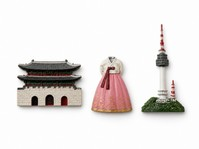
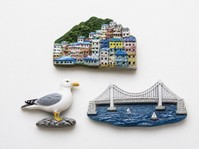
Localize K-items to Busan
- Shops: Seomyeon underground mall, Nampo-dong/Gwangbok-ro, Gukje Market,
  Gamcheon Culture Village, Haeundae, Busan Station (no Seoul places)
- Busan fridge magnets (village, seagull, Gwangan Bridge) with a new
  Canva picture; replace Insadong bookmarks with Busan fish cakes
- Update feature sentences, word meanings and README table

Claude-Session: https://claude.ai/code/session_01CMwNFnc6SkSm8puPctARfS

diff --git a/index.html b/index.html
@@ -262,13 +262,13 @@ footer { color: var(--muted); font-size: 13px; }
 <header class="top">
   <div class="wrap">
     <div class="sign-row">
-      <span class="shopname">🛍 K-ITEMS 영어 마켓</span>
+      <span class="shopname">🌊 부산 K-ITEMS 영어 마켓</span>
     </div>
     <div class="sign-row">
       <h1>How much are the <span class="blank" id="heroWord">socks</span>?</h1>
       <button class="speak" type="button" id="heroSpeak" aria-label="문장 듣기">🔊</button>
     </div>
-    <p class="lede">외국인 관광객이 <b>올리브영 · 다이소 · 아트박스 · 명동 · 인사동</b>에서 꼭 사 가는 K-아이템 20가지예요. 물건 이름, 가격, 특징을 보고 장바구니에 담아 영어노트 문장으로 연습해요. 단어를 누르면 뜻과 발음이 나와요.</p>
+    <p class="lede">부산에 온 외국인 관광객이 <b>올리브영 · 다이소 · 아트박스 · 서면 · 남포동 · 국제시장 · 감천문화마을</b>에서 꼭 사 가는 K-아이템 20가지예요. 물건 이름, 가격, 특징을 보고 장바구니에 담아 영어노트 문장으로 연습해요. 단어를 누르면 뜻과 발음이 나와요.</p>
   </div>
 </header>
 
@@ -319,8 +319,9 @@ footer { color: var(--muted); font-size: 13px; }
 
 <script>
 const STORES = {
-  oliveyoung: "올리브영", daiso: "다이소", artbox: "아트박스", myeongdong: "명동 거리",
-  insadong: "인사동 기념품점", underground: "지하상가", cvs: "편의점·마트"
+  oliveyoung: "올리브영", daiso: "다이소", artbox: "아트박스", seomyeon: "서면 지하상가",
+  nampo: "남포동·광복로", gukje: "국제시장", gamcheon: "감천문화마을", haeundae: "해운대",
+  busanstation: "부산역", cvs: "편의점·마트"
 };
 /* f: feature sentences per level — 1 초급 · 2 중급 · 3 고급 */
 const ITEMS = [
@@ -356,10 +357,10 @@ const ITEMS = [
     f:{1:[["They are clear.","투명해요."],["They are thin.","얇아요."]],
        2:[["K-pop fans keep their photocards in them.","케이팝 팬들이 포토카드를 넣어 보관해요."],["There are many sleeves in one pack.","한 묶음에 슬리브가 많이 들어 있어요."]],
        3:[["They protect your favorite idol's photocards from water and scratches.","좋아하는 아이돌 포토카드를 물과 긁힘으로부터 지켜 줘요."],["Fans from all over the world buy them at Daiso because they are cheap.","싸서 전 세계 팬들이 다이소에서 사 가요."]]}},
-  { id:"chopsticks", en:"chopsticks", ko:"쇠젓가락·수저 세트", emoji:"🥢", stores:["daiso","insadong"], price:3000, range:"2,000~30,000원",
+  { id:"chopsticks", en:"chopsticks", ko:"쇠젓가락·수저 세트", emoji:"🥢", stores:["daiso","gukje"], price:3000, range:"2,000~30,000원",
     f:{1:[["They are metal.","쇠로 만들었어요."],["They are long and flat.","길고 납작해요."]],
        2:[["Korean chopsticks are made of metal, not wood.","한국 젓가락은 나무가 아니라 쇠로 만들어요."],["They often come with a spoon.","숟가락과 함께 파는 경우가 많아요."]],
-       3:[["Flat metal chopsticks are hard to use at first, but you will get better.","납작한 쇠젓가락은 처음엔 쓰기 어렵지만 점점 익숙해져요."],["In Insadong, you can buy beautiful sets as gifts for your family.","인사동에서는 가족 선물로 예쁜 수저 세트를 살 수 있어요."]]}},
+       3:[["Flat metal chopsticks are hard to use at first, but you will get better.","납작한 쇠젓가락은 처음엔 쓰기 어렵지만 점점 익숙해져요."],["At Gukje Market, you can buy beautiful sets as gifts for your family.","국제시장에서는 가족 선물로 예쁜 수저 세트를 살 수 있어요."]]}},
   { id:"nail-clippers", en:"nail clippers", ko:"손톱깎이", emoji:"💅", stores:["daiso","oliveyoung"], price:3000, range:"1,000~10,000원",
     f:{1:[["They are strong.","튼튼해요."],["They are silver.","은색이에요."]],
        2:[["Korean nail clippers are very sharp and strong.","한국 손톱깎이는 아주 잘 들고 튼튼해요."],["Many tourists buy them as gifts.","관광객들이 선물로 많이 사 가요."]],
@@ -372,11 +373,11 @@ const ITEMS = [
     f:{1:[["They are pastel colors.","파스텔 색이에요."],["They write well.","잘 써져요."]],
        2:[["They come in a set of three colors.","세 가지 색이 한 세트예요."],["The ink dries very fast.","잉크가 아주 빨리 말라요."]],
        3:[["Korean students love these pens because they write smoothly and look pretty.","부드럽게 써지고 예뻐서 한국 학생들이 아주 좋아해요."],["They are light and cheap, so they are perfect gifts for friends.","가볍고 싸서 친구 선물로 딱이에요."]]}},
-  { id:"keychains", en:"keychains", ko:"캐릭터 키링", emoji:"🔑", stores:["artbox","myeongdong"], price:8000, range:"5,000~12,000원",
+  { id:"keychains", en:"keychains", ko:"캐릭터 키링", emoji:"🔑", stores:["artbox","gamcheon"], price:8000, range:"5,000~12,000원",
     f:{1:[["They are soft.","말랑해요."],["They have bears and bunnies.","곰과 토끼가 달려 있어요."]],
        2:[["People hang them on their bags.","사람들이 가방에 달고 다녀요."],["Each one has a cute animal on it.","하나마다 귀여운 동물이 있어요."]],
        3:[["You can make your own keychain with letters and charms at some shops.","어떤 가게에서는 글자와 장식으로 나만의 키링을 만들 수 있어요."],["They are small and light, so they are easy to bring home.","작고 가벼워서 집에 가져가기 쉬워요."]]}},
-  { id:"hair-clips", en:"hair clips", ko:"리본 헤어핀", emoji:"🎀", stores:["artbox","oliveyoung","underground"], price:4000, range:"3,000~6,000원",
+  { id:"hair-clips", en:"hair clips", ko:"리본 헤어핀", emoji:"🎀", stores:["artbox","oliveyoung","seomyeon"], price:4000, range:"3,000~6,000원",
     f:{1:[["They are pretty.","예뻐요."],["They have pearls.","진주가 달려 있어요."]],
        2:[["They come in many pastel colors.","파스텔 색이 아주 많아요."],["Ribbon hair clips are popular in Korea now.","요즘 한국에서 리본 헤어핀이 인기예요."]],
        3:[["K-pop idols often wear ribbon clips, so many fans want them.","케이팝 아이돌이 리본핀을 자주 해서 팬들이 많이 사요."],["You can wear one on each side of your hair for a cute look.","양쪽에 하나씩 꽂으면 귀여워 보여요."]]}},
@@ -384,33 +385,33 @@ const ITEMS = [
     f:{1:[["They are cloud shapes.","구름 모양이에요."],["They are soft colors.","색이 부드러워요."]],
        2:[["Students write short notes on them.","학생들이 짧은 메모를 써요."],["You can stick them in your books.","책에 붙일 수 있어요."]],
        3:[["Korean memo pads come in fun shapes, like clouds, fruit, and animals.","한국 메모지는 구름, 과일, 동물처럼 재미있는 모양이 많아요."],["They are thick, so one pad lasts a long time.","두툼해서 하나로 오래 써요."]]}},
-  { id:"socks", en:"socks", ko:"캐릭터 양말", emoji:"🧦", stores:["myeongdong","daiso"], price:2000, range:"1,000~3,000원",
+  { id:"socks", en:"socks", ko:"캐릭터 양말", emoji:"🧦", stores:["nampo","daiso"], price:2000, range:"1,000~3,000원",
     f:{1:[["They are cute.","귀여워요."],["They have cats on them.","고양이 그림이 있어요."]],
        2:[["You can buy five pairs for 10,000 won.","다섯 켤레를 만 원에 살 수 있어요."],["There are many animal designs.","동물 디자인이 아주 많아요."]],
-       3:[["Street shops in Myeongdong sell hundreds of socks with funny designs.","명동 거리 가게에서는 재미있는 디자인 양말을 수백 가지 팔아요."],["They are cheap, light, and easy to pack, so they are perfect souvenirs.","싸고 가볍고 챙기기 쉬워서 기념품으로 딱이에요."]]}},
+       3:[["Street shops in Nampo-dong sell hundreds of socks with funny designs.","남포동 거리 가게에서는 재미있는 디자인 양말을 수백 가지 팔아요."],["They are cheap, light, and easy to pack, so they are perfect souvenirs.","싸고 가볍고 챙기기 쉬워서 기념품으로 딱이에요."]]}},
   { id:"choco-pies", en:"Choco Pies", ko:"초코파이 (12개 상자)", emoji:"🍫", stores:["cvs"], price:6000, range:"12개 5,000~7,000원",
     f:{1:[["They are sweet.","달콤해요."],["They are round.","동그래요."]],
        2:[["They have soft marshmallow inside.","안에 부드러운 마시멜로가 있어요."],["There are twelve in one box.","한 상자에 12개가 들어 있어요."]],
        3:[["Koreans often share them with friends as a symbol of friendship.","한국 사람들은 우정의 표시로 친구와 자주 나눠 먹어요."],["Some shops sell special flavors, like strawberry or banana.","어떤 가게에서는 딸기나 바나나 같은 특별한 맛도 팔아요."]]}},
-  { id:"fridge-magnets", en:"fridge magnets", ko:"기념품 냉장고 자석", emoji:"🧲", stores:["insadong","myeongdong"], price:5000, range:"3,000~10,000원",
-    f:{1:[["They are small.","작아요."],["They look like Seoul.","서울 모양이에요."]],
-       2:[["They show famous places, like N Seoul Tower.","N서울타워 같은 유명한 곳 모양이에요."],["You can put them on your fridge.","냉장고에 붙일 수 있어요."]],
-       3:[["Many tourists collect fridge magnets from every city they visit.","많은 관광객이 가는 도시마다 냉장고 자석을 모아요."],["Some magnets show a palace, a hanbok, or a famous tower in Seoul.","궁궐, 한복, 서울의 유명한 타워 모양 자석도 있어요."]]}},
-  { id:"bookmarks", en:"bookmarks", ko:"전통 문양 책갈피", emoji:"🔖", stores:["insadong"], price:5000, range:"3,000~8,000원",
-    f:{1:[["They are thin.","얇아요."],["They have tassels.","술 장식이 달려 있어요."]],
-       2:[["They have traditional Korean patterns.","한국 전통 무늬가 있어요."],["They are made of metal.","금속으로 만들었어요."]],
-       3:[["The patterns come from old Korean palaces and doors.","무늬는 옛 궁궐과 문에서 가져왔어요."],["They are light and flat, so they are easy to put in a letter.","가볍고 납작해서 편지에 넣기 좋아요."]]}},
-  { id:"earrings", en:"earrings", ko:"귀걸이", emoji:"💎", stores:["underground","myeongdong"], price:5000, range:"5,000~10,000원",
+  { id:"fridge-magnets", en:"fridge magnets", ko:"부산 기념품 냉장고 자석", emoji:"🧲", stores:["gamcheon","haeundae"], price:5000, range:"3,000~10,000원",
+    f:{1:[["They are small.","작아요."],["They look like Busan.","부산 모양이에요."]],
+       2:[["They show famous places, like Haeundae Beach.","해운대 해수욕장 같은 유명한 곳 모양이에요."],["You can put them on your fridge.","냉장고에 붙일 수 있어요."]],
+       3:[["Many tourists collect fridge magnets from every city they visit.","많은 관광객이 가는 도시마다 냉장고 자석을 모아요."],["Some magnets show Gamcheon Culture Village, a seagull, or Gwangan Bridge.","감천문화마을, 갈매기, 광안대교 모양 자석도 있어요."]]}},
+  { id:"fish-cakes", en:"fish cakes", ko:"부산 어묵", emoji:"🍢", stores:["busanstation","gukje"], price:3000, range:"1,500~5,000원",
+    f:{1:[["They are hot.","따뜻해요."],["They taste good.","맛있어요."]],
+       2:[["Busan is famous for its fish cakes.","부산은 어묵으로 유명해요."],["You can eat them on a stick.","꼬치에 꽂아서 먹을 수 있어요."]],
+       3:[["Many tourists buy fish cakes at Busan Station before they take the train home.","많은 관광객이 기차를 타고 집에 가기 전에 부산역에서 어묵을 사요."],["Some fish cakes have cheese, vegetables, or shrimp inside.","치즈, 채소, 새우가 들어 있는 어묵도 있어요."]]}},
+  { id:"earrings", en:"earrings", ko:"귀걸이", emoji:"💎", stores:["seomyeon","nampo"], price:5000, range:"5,000~10,000원",
     f:{1:[["They are shiny.","반짝반짝해요."],["They are stars.","별 모양이에요."]],
        2:[["You can find many styles in underground shopping centers.","지하상가에서 여러 가지 스타일을 찾을 수 있어요."],["Some are clip-on earrings.","귀를 안 뚫어도 되는 집게형도 있어요."]],
-       3:[["The Gangnam Express Bus Terminal shopping center has hundreds of earring shops.","강남 고속터미널 지하상가에는 귀걸이 가게가 수백 개 있어요."],["They are cheap and trendy, so young tourists love them.","싸고 유행하는 디자인이라 젊은 관광객들이 아주 좋아해요."]]}}
+       3:[["The Seomyeon underground shopping center has hundreds of earring shops.","서면 지하상가에는 귀걸이 가게가 수백 개 있어요."],["They are cheap and trendy, so young tourists love them.","싸고 유행하는 디자인이라 젊은 관광객들이 아주 좋아해요."]]}}
 ];
 
 const LV_NAME = { 1: "🌱 초급", 2: "🌿 중급", 3: "🌳 고급" };
 
 /* Korean meanings for every word used in the sentences */
 const DICT = {
-  "a":"하나의 (a)","abc-mart":"ABC마트 (신발가게)","about":"약, 대략","all":"모든, 내내","an":"하나의 (an)","and":"그리고","animal":"동물","are":"~이다 (복수)","as":"~로서","at":"~에서","beach":"바닷가, 해변","beautiful":"아름다운","big":"큰","bigger":"더 큰","block":"막다","blue":"파란; 블루","bright":"밝은","but":"하지만","buy":"사다","can":"~할 수 있다","carry":"가지고 다니다","cartoon":"만화","centers":"센터, 상가","character":"캐릭터","characters":"캐릭터들","chopsticks":"젓가락","clip-on":"집게형(귀를 안 뚫어도 되는)","clippers":"깎는 도구","colorful":"알록달록한","colors":"색깔들","come":"(상품이) 나오다","comfortable":"편안한","computers":"컴퓨터들","convenience":"편리함 (convenience store: 편의점)","cool":"시원한; 멋진","cute":"귀여운","daiso":"다이소","dance":"춤, 댄스","day":"날, 하루","designs":"디자인들","dishes":"접시들, 설거지거리","don't":"~하지 않다","dongdaemun":"동대문","dry":"마르다","earmuffs":"귀마개","earphones":"이어폰","earrings":"귀걸이","ears":"귀들","easy":"쉬운","eight":"8, 여덟","eighty":"80","electronics":"전자제품","every":"매, 모든","eyebrows":"눈썹","eyeglass":"안경","eyelashes":"속눈썹","eyes":"눈들","false":"가짜의, 인조","festivals":"축제들","fifty":"50","find":"찾다","five":"5, 다섯","flat":"납작한","flip-flops":"쪼리, 슬리퍼","fluffy":"폭신한","for":"~을 위해, ~동안","forty":"40","four":"4, 넷","from":"~으로부터","fun":"재미있는","gangnam":"강남","get":"얻다, 맞추다","gifts":"선물들","glasses":"안경","gloves":"장갑","good":"좋은","handles":"손잡이들","hands":"손들","have":"가지고 있다","hearts":"하트 모양들","help":"돕다","hot":"더운, 뜨거운","hour":"1시간","house":"집","how":"얼마나, 어떻게","hundred":"100, 백","hundreds":"수백","i":"나, 저","in":"~안에, ~에서","insadong":"인사동","inside":"~안에서","jeans":"청바지","k-pop":"케이팝","keep":"유지하다 (keep warm: 따뜻하게 하다)","kids":"아이들","kimchi":"김치","korea":"한국","korean":"한국의","koreans":"한국 사람들","last":"오래가다","light":"가벼운; 빛","like":"~처럼","long":"긴, 오래","look":"~해 보이다","make":"만들다","many":"많은","market":"시장","metal":"금속, 쇠","mother-of-pearl":"자개","much":"많이 (How much: 얼마)","myeongdong":"명동","nail":"손톱","near":"~근처에","need":"필요하다","new":"새로운","nine":"9, 아홉","ninety":"90","now":"지금, 요즘","of":"~의","often":"자주, 흔히","old":"오래된","olive":"올리브 (Olive Young: 올리브영)","on":"~위에","one":"1, 하나","or":"또는","pair":"한 쌍, 한 켤레","pairs":"쌍들, 켤레들","pajamas":"잠옷","patterns":"무늬들","people":"사람들","phone":"휴대폰","phones":"휴대폰들","pick":"집다 (pick up: 집어 올리다)","pierced":"뚫은","pink":"분홍색의","pool":"수영장","popular":"인기 있는","protect":"보호하다","quickly":"빨리","real":"진짜의","red":"빨간","rubber":"고무","safe":"안전한","school":"학교","scissors":"가위","seven":"7, 일곱","seventy":"70","shape":"다듬다; 모양","shapes":"모양들","sharp":"날카로운","shoe":"신발","shoelaces":"신발끈","shoemarker":"슈마커 (신발가게)","shop":"가게","shopping":"쇼핑","shops":"가게들","shorts":"반바지","shows":"공연들","six":"6, 여섯","sixty":"60","slippers":"슬리퍼, 실내화","small":"작은","sneakers":"운동화","so":"그래서","socks":"양말","soft":"부드러운","some":"어떤 것들은","souvenir":"기념품","spao":"스파오 (옷가게)","sports":"운동","stars":"별들","stationery":"문구","stores":"가게들","street":"거리","strong":"튼튼한","students":"학생들","styles":"스타일들","summers":"여름들","sun":"해, 햇빛","sunglasses":"선글라스","supermarkets":"마트들","swimming":"수영","ten":"10, 열","the":"그 (정해진 것)","their":"그들의","them":"그것들을","these":"이것들","they":"그것들은","they're":"그것들은 ~이다 (They are)","things":"물건들","thirty":"30","thousand":"1,000, 천","three":"3, 셋","time":"시간","to":"~에, ~하기 위해","top":"위쪽","topten":"탑텐 (옷가게)","touch":"터치","tourists":"관광객들","tweezers":"족집게, 핀셋","twenty":"20","two":"2, 둘","underground":"지하의","uniqlo":"유니클로 (옷가게)","up":"위로","use":"사용하다","usually":"보통","very":"아주, 매우","walking":"걷기","want":"원하다","warm":"따뜻한","wash":"씻다","wear":"입다, 신다, 쓰다","wide":"넓은, 통이 큰","winter":"겨울","with":"~와 함께, ~로","won":"원 (한국 돈)","years":"년, 해들","you":"너, 여러분","young":"젊은 (Olive Young: 올리브영)","your":"너의","10,000":"10,000 (만)","sheet":"한 장 (sheet mask: 마스크팩)","masks":"마스크들, 팩","mask":"마스크, 팩","wet":"촉촉한, 젖은","my":"나의","skin":"피부","put":"놓다, 붙이다","face":"얼굴","fifteen":"15","minutes":"분 (시간)","pack":"묶음, 팩","packs":"묶음들","because":"~때문에","cheaper":"더 싼","each":"각각의","has":"가지고 있다","different":"다른","smell":"냄새, 향","green":"초록색의","tea":"차 (green tea: 녹차)","honey":"꿀","pimple":"여드름","patches":"패치들","clear":"투명한","before":"~전에","bed":"침대 (before bed: 자기 전에)","can't":"~할 수 없다","see":"보다","morning":"아침","looks":"~해 보이다","smaller":"더 작은","less":"덜","most":"가장","foreign":"외국의","visitors":"방문객들","lip":"입술","tints":"틴트들","pretty":"예쁜","lips":"입술","try":"(발라) 보다, 시도하다","store":"가게","stay":"남아 있다","even":"~조차, 훨씬","after":"~후에","eat":"먹다","drink":"마시다","idols":"아이돌들","stage":"무대","eye":"눈","gold":"금색의","under":"~아래에","there":"거기 (There are: ~이 있다)","jar":"통, 병","tired":"피곤한","flight":"비행","fridge":"냉장고","feel":"느끼다","cooler":"더 시원한","hand":"손","creams":"크림들","set":"세트","tube":"튜브","such":"~같은 (such as: 예를 들어)","peach":"복숭아","rose":"장미","milk":"우유","enough":"충분히","bag":"가방","hair":"머리카락","rollers":"롤, 마는 도구","round":"동그란","purple":"보라색의","bangs":"앞머리","girls":"여자아이들","outside":"밖에서","this":"이것","funny":"재미있는","roll":"말다","italy":"이탈리아 (Italy towel: 이태리타월)","towels":"수건들","rough":"거친, 까끌까끌한","scrub":"문지르다, 때를 밀다","bath":"목욕","cheap":"싼","called":"~라고 불리는","were":"~였다","first":"처음","made":"만들어진","feels":"느껴지다","smooth":"매끈한","clean":"깨끗한","photocard":"포토카드","sleeves":"슬리브, 보호 비닐","thin":"얇은","fans":"팬들","photocards":"포토카드들","favorite":"가장 좋아하는","idol's":"아이돌의","water":"물","scratches":"긁힘","over":"~위에 (all over the world: 전 세계)","world":"세계","not":"~가 아닌","wood":"나무","spoon":"숟가락","hard":"어려운","better":"더 나은 (get better: 나아지다)","sets":"세트들","family":"가족","silver":"은색의","famous":"유명한","around":"~주변에 (around the world: 전 세계에)","case":"케이스, 통","anywhere":"어디든","stickers":"스티커들","decorate":"꾸미다","diaries":"다이어리들","clouds":"구름들","decorating":"꾸미기","diary":"다이어리, 일기장","is":"~이다","dakku":"다꾸 (다이어리 꾸미기)","artbox":"아트박스 (문구점)","sticker":"스티커","it":"그것","choose":"고르다","gel":"젤","pens":"펜들","pastel":"파스텔(색)","write":"쓰다","well":"잘","ink":"잉크","dries":"마르다","fast":"빨리","love":"아주 좋아하다","smoothly":"부드럽게","perfect":"완벽한, 딱 맞는","friends":"친구들","keychains":"키링들","bears":"곰들","bunnies":"토끼들","hang":"달다, 걸다","bags":"가방들","own":"자신만의","keychain":"키링","letters":"글자들; 편지들","charms":"장식들","bring":"가져가다","home":"집","clips":"핀들, 집게들","pearls":"진주들","ribbon":"리본","side":"쪽, 옆","sticky":"끈적한 (sticky notes: 붙이는 메모지)","notes":"메모들","cloud":"구름","short":"짧은","stick":"붙이다","books":"책들","memo":"메모","pads":"묶음 (memo pad: 메모지)","fruit":"과일","animals":"동물들","thick":"두꺼운","pad":"메모지 묶음","lasts":"오래가다","cats":"고양이들","sell":"팔다","souvenirs":"기념품들","choco":"초코","pies":"파이들","sweet":"달콤한","marshmallow":"마시멜로","twelve":"12","box":"상자","share":"나누다","symbol":"상징, 표시","friendship":"우정","special":"특별한","flavors":"맛들","strawberry":"딸기","banana":"바나나","magnets":"자석들","seoul":"서울","show":"보여 주다","places":"장소들","n":"N (N Seoul Tower: N서울타워)","tower":"타워, 탑","collect":"모으다","city":"도시","visit":"방문하다","palace":"궁궐","hanbok":"한복","bookmarks":"책갈피들","tassels":"술 장식","traditional":"전통의","palaces":"궁궐들","doors":"문들","letter":"편지","shiny":"반짝이는","express":"고속 (Express Bus Terminal: 고속터미널)","bus":"버스","terminal":"터미널","center":"센터, 상가","earring":"귀걸이","trendy":"유행하는","excuse":"실례하다 (Excuse me: 실례합니다)","me":"나를, 저를","where":"어디에서","could":"~해 주시겠어요? (공손하게)","tell":"말하다, 알려 주다","sure":"물론이죠","great":"좋아요, 아주 좋은","i'll":"나는 ~할게요 (I will)","take":"사다, 가져가다","please":"주세요, 부탁해요","that":"그것","will":"~일 것이다","be":"~이다"
+  "a":"하나의 (a)","abc-mart":"ABC마트 (신발가게)","about":"약, 대략","all":"모든, 내내","an":"하나의 (an)","and":"그리고","animal":"동물","are":"~이다 (복수)","as":"~로서","at":"~에서","beach":"바닷가, 해변","beautiful":"아름다운","big":"큰","bigger":"더 큰","block":"막다","blue":"파란; 블루","bright":"밝은","but":"하지만","buy":"사다","can":"~할 수 있다","carry":"가지고 다니다","cartoon":"만화","centers":"센터, 상가","character":"캐릭터","characters":"캐릭터들","chopsticks":"젓가락","clip-on":"집게형(귀를 안 뚫어도 되는)","clippers":"깎는 도구","colorful":"알록달록한","colors":"색깔들","come":"(상품이) 나오다","comfortable":"편안한","computers":"컴퓨터들","convenience":"편리함 (convenience store: 편의점)","cool":"시원한; 멋진","cute":"귀여운","daiso":"다이소","dance":"춤, 댄스","day":"날, 하루","designs":"디자인들","dishes":"접시들, 설거지거리","don't":"~하지 않다","dongdaemun":"동대문","dry":"마르다","earmuffs":"귀마개","earphones":"이어폰","earrings":"귀걸이","ears":"귀들","easy":"쉬운","eight":"8, 여덟","eighty":"80","electronics":"전자제품","every":"매, 모든","eyebrows":"눈썹","eyeglass":"안경","eyelashes":"속눈썹","eyes":"눈들","false":"가짜의, 인조","festivals":"축제들","fifty":"50","find":"찾다","five":"5, 다섯","flat":"납작한","flip-flops":"쪼리, 슬리퍼","fluffy":"폭신한","for":"~을 위해, ~동안","forty":"40","four":"4, 넷","from":"~으로부터","fun":"재미있는","gangnam":"강남","get":"얻다, 맞추다","gifts":"선물들","glasses":"안경","gloves":"장갑","good":"좋은","handles":"손잡이들","hands":"손들","have":"가지고 있다","hearts":"하트 모양들","help":"돕다","hot":"더운, 뜨거운","hour":"1시간","house":"집","how":"얼마나, 어떻게","hundred":"100, 백","hundreds":"수백","i":"나, 저","in":"~안에, ~에서","insadong":"인사동","inside":"~안에서","jeans":"청바지","k-pop":"케이팝","keep":"유지하다 (keep warm: 따뜻하게 하다)","kids":"아이들","kimchi":"김치","korea":"한국","korean":"한국의","koreans":"한국 사람들","last":"오래가다","light":"가벼운; 빛","like":"~처럼","long":"긴, 오래","look":"~해 보이다","make":"만들다","many":"많은","market":"시장","metal":"금속, 쇠","mother-of-pearl":"자개","much":"많이 (How much: 얼마)","myeongdong":"명동","nail":"손톱","near":"~근처에","need":"필요하다","new":"새로운","nine":"9, 아홉","ninety":"90","now":"지금, 요즘","of":"~의","often":"자주, 흔히","old":"오래된","olive":"올리브 (Olive Young: 올리브영)","on":"~위에","one":"1, 하나","or":"또는","pair":"한 쌍, 한 켤레","pairs":"쌍들, 켤레들","pajamas":"잠옷","patterns":"무늬들","people":"사람들","phone":"휴대폰","phones":"휴대폰들","pick":"집다 (pick up: 집어 올리다)","pierced":"뚫은","pink":"분홍색의","pool":"수영장","popular":"인기 있는","protect":"보호하다","quickly":"빨리","real":"진짜의","red":"빨간","rubber":"고무","safe":"안전한","school":"학교","scissors":"가위","seven":"7, 일곱","seventy":"70","shape":"다듬다; 모양","shapes":"모양들","sharp":"날카로운","shoe":"신발","shoelaces":"신발끈","shoemarker":"슈마커 (신발가게)","shop":"가게","shopping":"쇼핑","shops":"가게들","shorts":"반바지","shows":"공연들","six":"6, 여섯","sixty":"60","slippers":"슬리퍼, 실내화","small":"작은","sneakers":"운동화","so":"그래서","socks":"양말","soft":"부드러운","some":"어떤 것들은","souvenir":"기념품","spao":"스파오 (옷가게)","sports":"운동","stars":"별들","stationery":"문구","stores":"가게들","street":"거리","strong":"튼튼한","students":"학생들","styles":"스타일들","summers":"여름들","sun":"해, 햇빛","sunglasses":"선글라스","supermarkets":"마트들","swimming":"수영","ten":"10, 열","the":"그 (정해진 것)","their":"그들의","them":"그것들을","these":"이것들","they":"그것들은","they're":"그것들은 ~이다 (They are)","things":"물건들","thirty":"30","thousand":"1,000, 천","three":"3, 셋","time":"시간","to":"~에, ~하기 위해","top":"위쪽","topten":"탑텐 (옷가게)","touch":"터치","tourists":"관광객들","tweezers":"족집게, 핀셋","twenty":"20","two":"2, 둘","underground":"지하의","uniqlo":"유니클로 (옷가게)","up":"위로","use":"사용하다","usually":"보통","very":"아주, 매우","walking":"걷기","want":"원하다","warm":"따뜻한","wash":"씻다","wear":"입다, 신다, 쓰다","wide":"넓은, 통이 큰","winter":"겨울","with":"~와 함께, ~로","won":"원 (한국 돈)","years":"년, 해들","you":"너, 여러분","young":"젊은 (Olive Young: 올리브영)","your":"너의","10,000":"10,000 (만)","gukje":"국제 (Gukje Market: 국제시장)","nampo-dong":"남포동","busan":"부산","haeundae":"해운대","gamcheon":"감천","culture":"문화","village":"마을","seagull":"갈매기","gwangan":"광안 (Gwangan Bridge: 광안대교)","bridge":"다리","fish":"생선, 물고기","cakes":"케이크 (fish cakes: 어묵)","taste":"맛이 나다","its":"그것의","station":"역 (Busan Station: 부산역)","train":"기차","cheese":"치즈","vegetables":"채소들","shrimp":"새우","seomyeon":"서면","sheet":"한 장 (sheet mask: 마스크팩)","masks":"마스크들, 팩","mask":"마스크, 팩","wet":"촉촉한, 젖은","my":"나의","skin":"피부","put":"놓다, 붙이다","face":"얼굴","fifteen":"15","minutes":"분 (시간)","pack":"묶음, 팩","packs":"묶음들","because":"~때문에","cheaper":"더 싼","each":"각각의","has":"가지고 있다","different":"다른","smell":"냄새, 향","green":"초록색의","tea":"차 (green tea: 녹차)","honey":"꿀","pimple":"여드름","patches":"패치들","clear":"투명한","before":"~전에","bed":"침대 (before bed: 자기 전에)","can't":"~할 수 없다","see":"보다","morning":"아침","looks":"~해 보이다","smaller":"더 작은","less":"덜","most":"가장","foreign":"외국의","visitors":"방문객들","lip":"입술","tints":"틴트들","pretty":"예쁜","lips":"입술","try":"(발라) 보다, 시도하다","store":"가게","stay":"남아 있다","even":"~조차, 훨씬","after":"~후에","eat":"먹다","drink":"마시다","idols":"아이돌들","stage":"무대","eye":"눈","gold":"금색의","under":"~아래에","there":"거기 (There are: ~이 있다)","jar":"통, 병","tired":"피곤한","flight":"비행","fridge":"냉장고","feel":"느끼다","cooler":"더 시원한","hand":"손","creams":"크림들","set":"세트","tube":"튜브","such":"~같은 (such as: 예를 들어)","peach":"복숭아","rose":"장미","milk":"우유","enough":"충분히","bag":"가방","hair":"머리카락","rollers":"롤, 마는 도구","round":"동그란","purple":"보라색의","bangs":"앞머리","girls":"여자아이들","outside":"밖에서","this":"이것","funny":"재미있는","roll":"말다","italy":"이탈리아 (Italy towel: 이태리타월)","towels":"수건들","rough":"거친, 까끌까끌한","scrub":"문지르다, 때를 밀다","bath":"목욕","cheap":"싼","called":"~라고 불리는","were":"~였다","first":"처음","made":"만들어진","feels":"느껴지다","smooth":"매끈한","clean":"깨끗한","photocard":"포토카드","sleeves":"슬리브, 보호 비닐","thin":"얇은","fans":"팬들","photocards":"포토카드들","favorite":"가장 좋아하는","idol's":"아이돌의","water":"물","scratches":"긁힘","over":"~위에 (all over the world: 전 세계)","world":"세계","not":"~가 아닌","wood":"나무","spoon":"숟가락","hard":"어려운","better":"더 나은 (get better: 나아지다)","sets":"세트들","family":"가족","silver":"은색의","famous":"유명한","around":"~주변에 (around the world: 전 세계에)","case":"케이스, 통","anywhere":"어디든","stickers":"스티커들","decorate":"꾸미다","diaries":"다이어리들","clouds":"구름들","decorating":"꾸미기","diary":"다이어리, 일기장","is":"~이다","dakku":"다꾸 (다이어리 꾸미기)","artbox":"아트박스 (문구점)","sticker":"스티커","it":"그것","choose":"고르다","gel":"젤","pens":"펜들","pastel":"파스텔(색)","write":"쓰다","well":"잘","ink":"잉크","dries":"마르다","fast":"빨리","love":"아주 좋아하다","smoothly":"부드럽게","perfect":"완벽한, 딱 맞는","friends":"친구들","keychains":"키링들","bears":"곰들","bunnies":"토끼들","hang":"달다, 걸다","bags":"가방들","own":"자신만의","keychain":"키링","letters":"글자들; 편지들","charms":"장식들","bring":"가져가다","home":"집","clips":"핀들, 집게들","pearls":"진주들","ribbon":"리본","side":"쪽, 옆","sticky":"끈적한 (sticky notes: 붙이는 메모지)","notes":"메모들","cloud":"구름","short":"짧은","stick":"붙이다","books":"책들","memo":"메모","pads":"묶음 (memo pad: 메모지)","fruit":"과일","animals":"동물들","thick":"두꺼운","pad":"메모지 묶음","lasts":"오래가다","cats":"고양이들","sell":"팔다","souvenirs":"기념품들","choco":"초코","pies":"파이들","sweet":"달콤한","marshmallow":"마시멜로","twelve":"12","box":"상자","share":"나누다","symbol":"상징, 표시","friendship":"우정","special":"특별한","flavors":"맛들","strawberry":"딸기","banana":"바나나","magnets":"자석들","seoul":"서울","show":"보여 주다","places":"장소들","n":"N (N Seoul Tower: N서울타워)","tower":"타워, 탑","collect":"모으다","city":"도시","visit":"방문하다","palace":"궁궐","hanbok":"한복","bookmarks":"책갈피들","tassels":"술 장식","traditional":"전통의","palaces":"궁궐들","doors":"문들","letter":"편지","shiny":"반짝이는","express":"고속 (Express Bus Terminal: 고속터미널)","bus":"버스","terminal":"터미널","center":"센터, 상가","earring":"귀걸이","trendy":"유행하는","excuse":"실례하다 (Excuse me: 실례합니다)","me":"나를, 저를","where":"어디에서","could":"~해 주시겠어요? (공손하게)","tell":"말하다, 알려 주다","sure":"물론이죠","great":"좋아요, 아주 좋은","i'll":"나는 ~할게요 (I will)","take":"사다, 가져가다","please":"주세요, 부탁해요","that":"그것","will":"~일 것이다","be":"~이다"
 };
 function meaning(word) {
   const w = word.toLowerCase().replace(/^[^a-z0-9]+|[^a-z0-9']+$/g, "");

diff --git a/README.md b/README.md
@@ -1,10 +1,10 @@
-# 🇰🇷 K-ITEMS — 외국인이 한국에서 꼭 사 가는 물건 20
+# 🌊 부산 K-ITEMS — 외국인이 부산에서 꼭 사 가는 물건 20
 
 > 🛒 **웹 앱: [`index.html`](index.html)** — 브라우저로 열면 바로 쓸 수 있어요.
 > 물건 이름 · 가격 · 특징을 보고, 장바구니에 담은 물건의 *How much are the ___? They're ___.* 문장과 특징 문장을 영어노트에서 듣고, 단어 뜻을 보고, 녹음하며 연습해요.
 > 특징 문장은 🌱 초급 · 🌿 중급 · 🌳 고급 중에서 골라요. 물건과 가격은 단계와 상관없이 같아요.
 
-외국인 관광객이 많이 가는 **올리브영 · 다이소 · 아트박스 · 명동 · 인사동 · 지하상가 · 편의점**의 인기 물건 가운데, 영어로 **복수형**으로 묻고 답할 수 있는 것을 골랐어요.
+부산에 온 외국인 관광객이 많이 가는 **올리브영 · 다이소 · 아트박스 · 서면 지하상가 · 남포동·광복로 · 국제시장 · 감천문화마을 · 해운대 · 부산역 · 편의점**의 인기 물건 가운데, 영어로 **복수형**으로 묻고 답할 수 있는 것을 골랐어요.
 
 > 💡 가격은 2026년 기준 **대략적인 가격**이에요. 매장·브랜드·할인 행사에 따라 달라질 수 있어요. 그림은 Canva로 만든 이미지예요.
 
@@ -18,18 +18,18 @@
 | 6 | **hair rollers** | 앞머리 롤 | 다이소, 올리브영 | 2,000원 | 1,000~3,000원 |
 | 7 | **Italy towels** | 이태리타월 (때밀이 수건) | 다이소, 편의점·마트 | 1,000원 | 1,000~2,000원 |
 | 8 | **photocard sleeves** | 포토카드 슬리브 | 다이소, 아트박스 | 1,000원 | 1,000~2,000원 |
-| 9 | **chopsticks** | 쇠젓가락·수저 세트 | 다이소, 인사동 기념품점 | 3,000원 | 2,000~30,000원 |
+| 9 | **chopsticks** | 쇠젓가락·수저 세트 | 다이소, 국제시장 | 3,000원 | 2,000~30,000원 |
 | 10 | **nail clippers** | 손톱깎이 | 다이소, 올리브영 | 3,000원 | 1,000~10,000원 |
 | 11 | **stickers** | 다꾸 스티커 | 아트박스, 다이소 | 2,500원 | 2,000~4,000원 |
 | 12 | **gel pens** | 젤펜 (3자루) | 아트박스, 다이소 | 4,500원 | 3자루 3,000~6,000원 |
-| 13 | **keychains** | 캐릭터 키링 | 아트박스, 명동 거리 | 8,000원 | 5,000~12,000원 |
-| 14 | **hair clips** | 리본 헤어핀 | 아트박스, 올리브영, 지하상가 | 4,000원 | 3,000~6,000원 |
+| 13 | **keychains** | 캐릭터 키링 | 아트박스, 감천문화마을 | 8,000원 | 5,000~12,000원 |
+| 14 | **hair clips** | 리본 헤어핀 | 아트박스, 올리브영, 서면 지하상가 | 4,000원 | 3,000~6,000원 |
 | 15 | **sticky notes** | 모양 메모지 | 아트박스, 다이소 | 3,000원 | 2,000~4,000원 |
-| 16 | **socks** | 캐릭터 양말 | 명동 거리, 다이소 | 2,000원 | 1,000~3,000원 |
+| 16 | **socks** | 캐릭터 양말 | 남포동·광복로, 다이소 | 2,000원 | 1,000~3,000원 |
 | 17 | **Choco Pies** | 초코파이 (12개 상자) | 편의점·마트 | 6,000원 | 12개 5,000~7,000원 |
-| 18 | **fridge magnets** | 기념품 냉장고 자석 | 인사동 기념품점, 명동 거리 | 5,000원 | 3,000~10,000원 |
-| 19 | **bookmarks** | 전통 문양 책갈피 | 인사동 기념품점 | 5,000원 | 3,000~8,000원 |
-| 20 | **earrings** | 귀걸이 | 지하상가, 명동 거리 | 5,000원 | 5,000~10,000원 |
+| 18 | **fridge magnets** | 부산 기념품 냉장고 자석 | 감천문화마을, 해운대 | 5,000원 | 3,000~10,000원 |
+| 19 | **fish cakes** | 부산 어묵 | 부산역, 국제시장 | 3,000원 | 1,500~5,000원 |
+| 20 | **earrings** | 귀걸이 | 서면 지하상가, 남포동·광복로 | 5,000원 | 5,000~10,000원 |
 
 ## 🗣 문장
 
